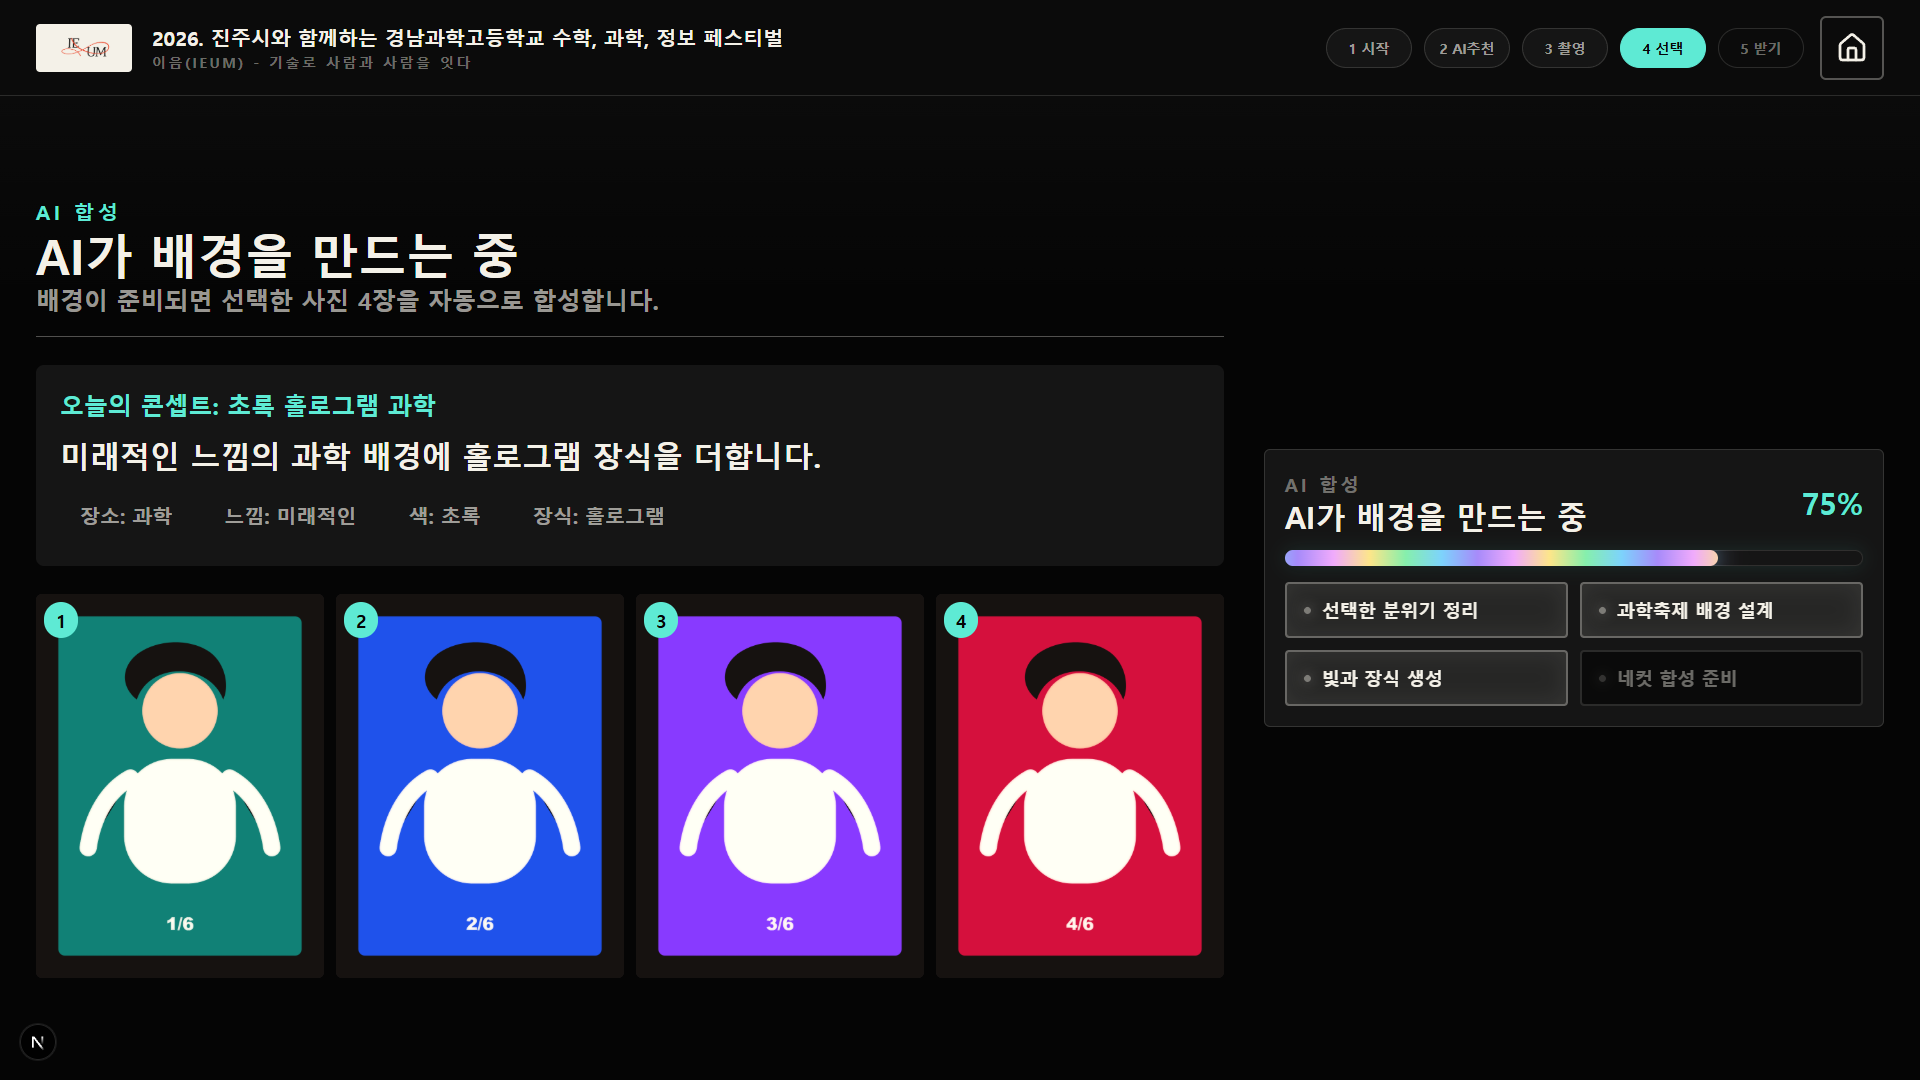
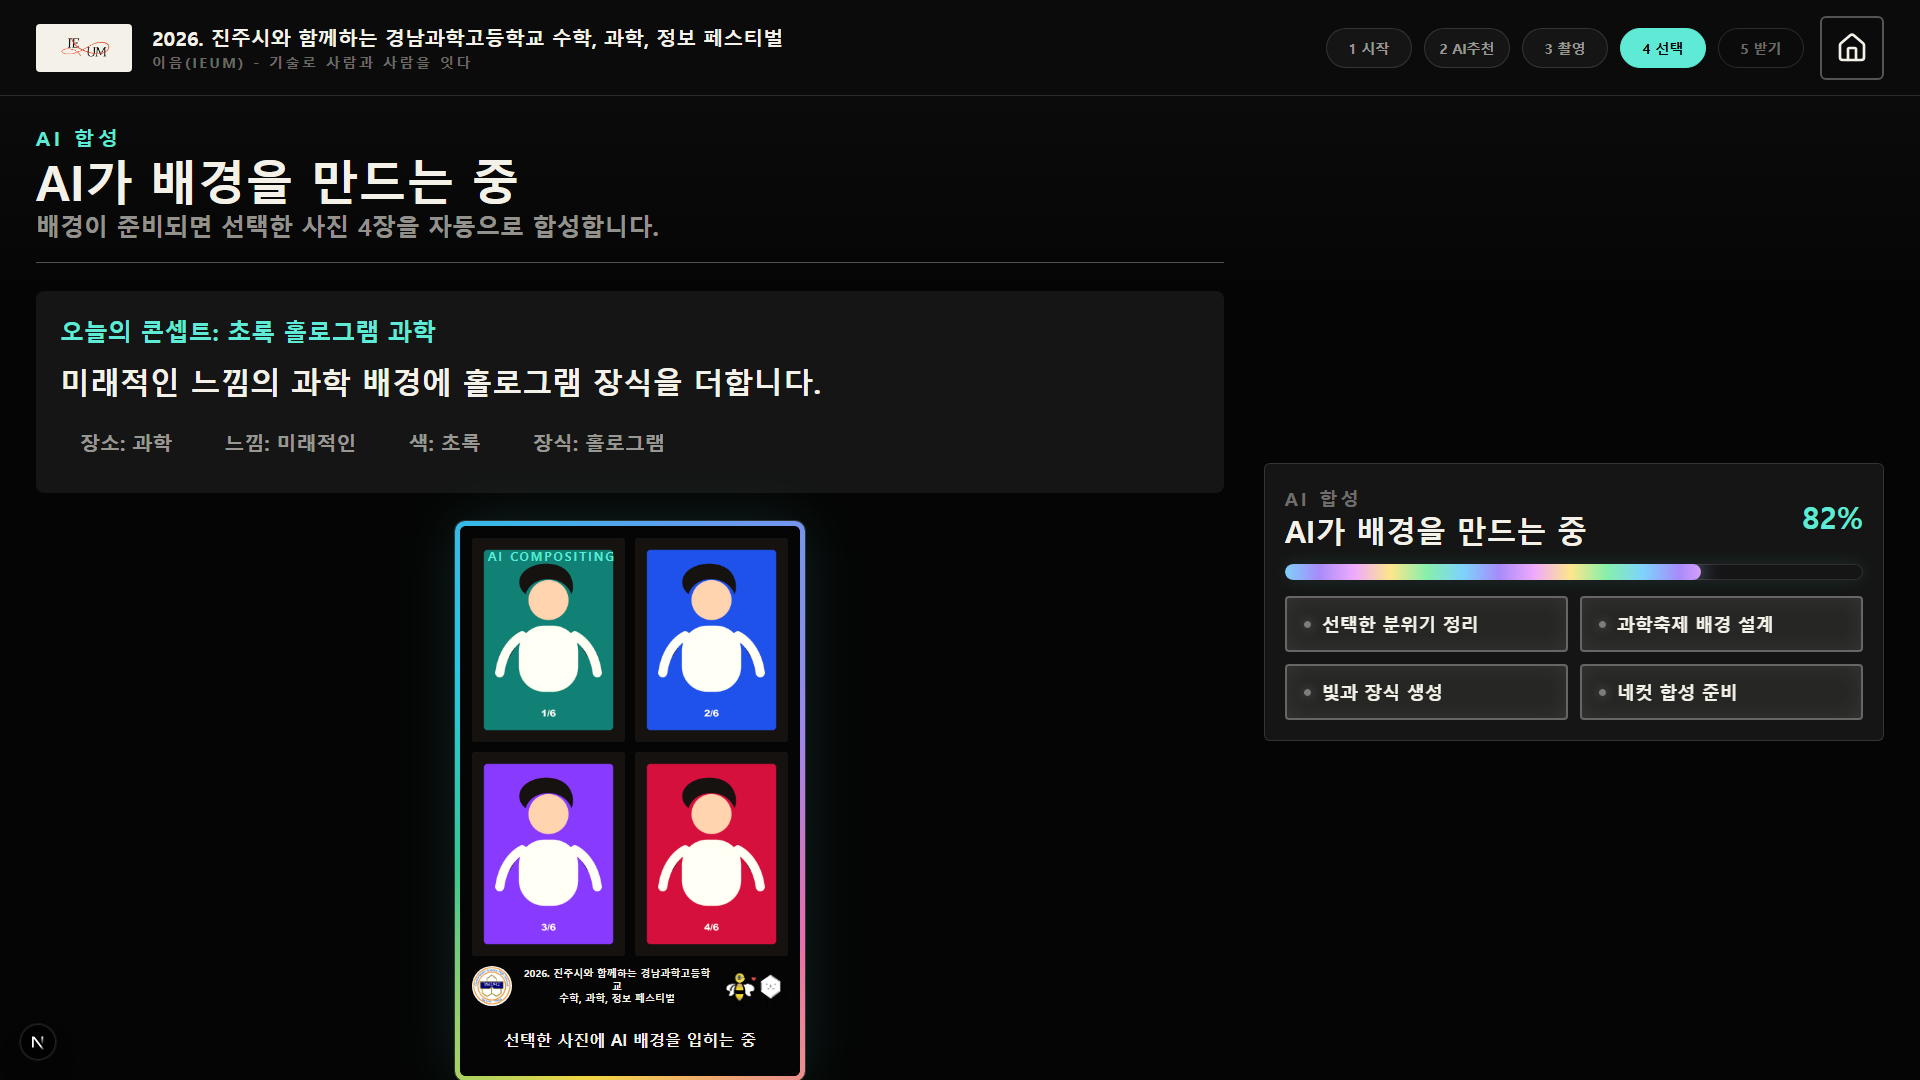
Add AI compositing frame effect

diff --git a/components/BoothApp.tsx b/components/BoothApp.tsx
@@ -49,6 +49,7 @@ const CATEGORY_LABELS: Record<KeywordCategory, string> = {
   effect: "장식",
 };
 const EVENT_TITLE = "2026. 진주시와 함께하는 경남과학고등학교 수학, 과학, 정보 페스티벌";
+const EVENT_TITLE_FRAME_LINES = ["2026. 진주시와 함께하는 경남과학고등학교", "수학, 과학, 정보 페스티벌"];
 const BOOTH_NAME = "AI와 함께하는 수과정페 네컷";
 const CLUB_NAME = "이음(IEUM)";
 const CLUB_SLOGAN = "- 기술로 사람과 사람을 잇다";
@@ -173,8 +174,9 @@ function demoFinalDataUrl(): string {
     <svg xmlns="http://www.w3.org/2000/svg" width="2400" height="3600" viewBox="0 0 2400 3600">
       <rect width="2400" height="3600" fill="#050505"/>
       ${cells}
-      <text x="1200" y="3330" fill="#f4f1e8" font-family="Arial" font-size="58" font-weight="800" text-anchor="middle">2026. 진주시와 함께하는 경남과학고등학교 수학, 과학, 정보 페스티벌</text>
-      <text x="1200" y="3420" fill="#5eead4" font-family="Arial" font-size="44" font-weight="800" text-anchor="middle">AI TYPE: 초록 홀로그램 과학자</text>
+      <text x="1200" y="3290" fill="#f4f1e8" font-family="Arial" font-size="58" font-weight="800" text-anchor="middle">${EVENT_TITLE_FRAME_LINES[0]}</text>
+      <text x="1200" y="3370" fill="#f4f1e8" font-family="Arial" font-size="58" font-weight="800" text-anchor="middle">${EVENT_TITLE_FRAME_LINES[1]}</text>
+      <text x="1200" y="3460" fill="#5eead4" font-family="Arial" font-size="44" font-weight="800" text-anchor="middle">AI TYPE: 초록 홀로그램 과학자</text>
     </svg>
   `);
 }
@@ -369,10 +371,70 @@ function FramePreviewMockup() {
         {/* eslint-disable-next-line @next/next/no-img-element */}
         <img src="/brand/school-mark.png" alt="경남과학고등학교" className="h-20 w-20 rounded-full bg-[#f4f1e8] object-cover" />
         <div className="text-center">
-          <p className="safe-text text-sm font-black leading-tight text-[var(--text)]">{EVENT_TITLE}</p>
+          {EVENT_TITLE_FRAME_LINES.map((line) => (
+            <p key={line} className="safe-text text-sm font-black leading-tight text-[var(--text)]">
+              {line}
+            </p>
+          ))}
         </div>
         {/* eslint-disable-next-line @next/next/no-img-element */}
         <img src="/brand/keuni-deuri-hands.png" alt="크니 드리" className="h-20 w-[110px] object-contain" />
+      </div>
+    </div>
+  );
+}
+
+function CompositingFramePreview({
+  photos,
+  title = "AI가 배경을 입히는 중",
+  compact = false,
+}: {
+  photos: Array<string | undefined>;
+  title?: string;
+  compact?: boolean;
+}) {
+  const slots = Array.from({ length: 4 }, (_, index) => photos[index]);
+  const shellClass = compact ? "max-w-[350px]" : "max-w-[520px]";
+  const panelClass = compact ? "gap-2.5 p-3" : "gap-4 p-5";
+  const gridGapClass = compact ? "gap-2.5" : "gap-4";
+  const logoClass = compact ? "h-10 w-10" : "h-16 w-16";
+  const characterClass = compact ? "h-10 w-[66px]" : "h-16 w-[92px]";
+
+  return (
+    <div className={`ai-composite-shell mx-auto w-full ${shellClass} rounded-[10px] p-[5px]`}>
+      <div className={`relative grid ${panelClass} rounded-[6px] bg-[#050505] text-[var(--text)]`}>
+        <div className={`${compact ? "left-4 top-4 px-3 py-1.5 text-xs" : "left-5 top-5 px-4 py-2 text-sm"} absolute z-20 rounded-[4px] bg-[#050505]/74 font-black tracking-[0.16em] text-[var(--primary)]`}>
+          AI COMPOSITING
+        </div>
+        <div className={`grid grid-cols-2 ${gridGapClass}`}>
+          {slots.map((src, index) => (
+            <div key={index} className="relative aspect-[3/4] overflow-hidden rounded-[4px] bg-[#063d34]">
+              {src ? (
+                // eslint-disable-next-line @next/next/no-img-element
+                <img src={src} alt={`${index + 1}번째 합성 대기 사진`} className="h-full w-full object-cover" />
+              ) : (
+                <div className="grid h-full place-items-center text-4xl font-black text-[var(--text-subtle)]">{index + 1}</div>
+              )}
+              <div className="pointer-events-none absolute inset-0 bg-[radial-gradient(circle_at_50%_35%,transparent_0,transparent_46%,rgba(5,5,5,0.18)_100%)]" />
+            </div>
+          ))}
+        </div>
+        <div className={`${compact ? "grid-cols-[40px_1fr_66px] gap-2.5" : "grid-cols-[64px_1fr_92px] gap-4"} grid items-center`}>
+          {/* eslint-disable-next-line @next/next/no-img-element */}
+          <img src="/brand/school-mark.png" alt="경남과학고등학교" className={`${logoClass} rounded-full bg-[#f4f1e8] object-cover`} />
+          <div className="text-center">
+            {EVENT_TITLE_FRAME_LINES.map((line) => (
+              <p key={line} className={`${compact ? "text-[10px]" : "text-xs"} safe-text font-black leading-tight text-[var(--text)]`}>
+                {line}
+              </p>
+            ))}
+          </div>
+          {/* eslint-disable-next-line @next/next/no-img-element */}
+          <img src="/brand/keuni-deuri-hands.png" alt="크니 드리" className={`${characterClass} object-contain`} />
+        </div>
+        <p className={`${compact ? "text-base" : "text-xl"} safe-text rounded-[4px] bg-[#f4f1e8]/8 px-4 py-3 text-center font-black text-[var(--text)]`}>
+          {title}
+        </p>
       </div>
     </div>
   );
@@ -561,6 +623,14 @@ export function BoothApp() {
   const cameraActive = step === "analysis_capture" || step === "capture";
   const selectedReady = selectedPhotoIndices.length === 4;
   const previewPhotos = beautifiedPhotos.length === capturedPhotos.length ? beautifiedPhotos : capturedPhotos;
+  const selectedFramePhotos = useMemo(
+    () =>
+      Array.from({ length: 4 }, (_, order) => {
+        const photoIndex = selectedPhotoIndices[order];
+        return typeof photoIndex === "number" ? previewPhotos[photoIndex] : undefined;
+      }),
+    [previewPhotos, selectedPhotoIndices],
+  );
   const beautyPreviewProcessing = beautyPreviewStatus === "processing";
   const screenshotMode =
     process.env.NODE_ENV !== "production" &&
@@ -1524,17 +1594,7 @@ export function BoothApp() {
                   </div>
                 )}
                 {selectedPhotoIndices.length > 0 && (
-                  <div className="grid grid-cols-4 gap-3">
-                    {selectedPhotoIndices.map((photoIndex, order) => (
-                      <div key={`${photoIndex}-${order}`} className="relative overflow-hidden rounded-[6px] bg-[var(--surface)]">
-                        {/* eslint-disable-next-line @next/next/no-img-element */}
-                        <img src={previewPhotos[photoIndex]} alt={`${order + 1}번째 선택 사진`} className="aspect-[3/4] w-full object-cover" />
-                        <span className="absolute left-2 top-2 rounded-full bg-[var(--primary)] px-3 py-1 text-lg font-black text-[var(--primary-text)]">
-                          {order + 1}
-                        </span>
-                      </div>
-                    ))}
-                  </div>
+                  <CompositingFramePreview photos={selectedFramePhotos} title="선택한 사진에 AI 배경을 입히는 중" compact />
                 )}
               </div>
               <div className="grid gap-5">
@@ -1650,19 +1710,25 @@ export function BoothApp() {
           )}
 
           {!error && step === "uploading" && (
-            <LoadingPanel
-              icon={<Wand2 className="h-16 w-16 animate-pulse" />}
-              title="사진을 정리하고 있습니다"
-              detail={uploadStatus || "선택한 사진을 보정하고 저장합니다"}
-            />
+            <div className="grid h-full grid-cols-[560px_1fr] items-center gap-12">
+              <CompositingFramePreview photos={selectedFramePhotos} title="크로마키 사진을 프레임에 올리는 중" />
+              <LoadingPanel
+                icon={<Wand2 className="h-16 w-16 animate-pulse" />}
+                title="사진을 정리하고 있습니다"
+                detail={uploadStatus || "선택한 사진을 보정하고 저장합니다"}
+              />
+            </div>
           )}
 
           {!error && step === "compose" && (
-            <LoadingPanel
-              icon={<Camera className="h-16 w-16 animate-pulse" />}
-              title="네컷 사진을 만들고 있습니다"
-              detail="선택한 4장과 배경을 최종 프레임에 맞춰 합성합니다"
-            />
+            <div className="grid h-full grid-cols-[560px_1fr] items-center gap-12">
+              <CompositingFramePreview photos={selectedFramePhotos} title="AI 배경과 네컷 프레임을 합성하는 중" />
+              <LoadingPanel
+                icon={<Camera className="h-16 w-16 animate-pulse" />}
+                title="네컷 사진을 만들고 있습니다"
+                detail="선택한 4장과 배경을 최종 프레임에 맞춰 합성합니다"
+              />
+            </div>
           )}
 
           {!error && step === "result" && finalUrl && (

diff --git a/app/globals.css b/app/globals.css
@@ -312,6 +312,57 @@ input:focus-visible {
   z-index: 1;
 }
 
+.ai-composite-shell {
+  position: relative;
+  isolation: isolate;
+  overflow: hidden;
+  background: #050505;
+  box-shadow:
+    0 0 0 1px rgba(244, 241, 232, 0.16),
+    0 0 60px rgba(94, 234, 212, 0.14);
+}
+
+.ai-composite-shell::before,
+.ai-composite-shell::after {
+  content: "";
+  position: absolute;
+  pointer-events: none;
+}
+
+.ai-composite-shell::before {
+  inset: -45%;
+  z-index: -2;
+  background:
+    conic-gradient(
+      from 0deg,
+      #60a5fa,
+      #a78bfa,
+      #f472b6,
+      #fde047,
+      #34d399,
+      #22d3ee,
+      #60a5fa
+    );
+  animation: ai-border-rotate 2.7s linear infinite;
+  opacity: 0.95;
+}
+
+.ai-composite-shell::after {
+  inset: 5px;
+  z-index: -1;
+  border-radius: 6px;
+  background:
+    radial-gradient(circle at 18% 12%, rgba(96, 165, 250, 0.42), transparent 28%),
+    radial-gradient(circle at 88% 18%, rgba(244, 114, 182, 0.34), transparent 32%),
+    radial-gradient(circle at 54% 100%, rgba(52, 211, 153, 0.22), transparent 34%),
+    #050505;
+}
+
+.ai-composite-shell img {
+  position: relative;
+  z-index: 1;
+}
+
 .ai-progress-track {
   box-shadow:
     inset 0 0 0 1px rgba(244, 241, 232, 0.12),
